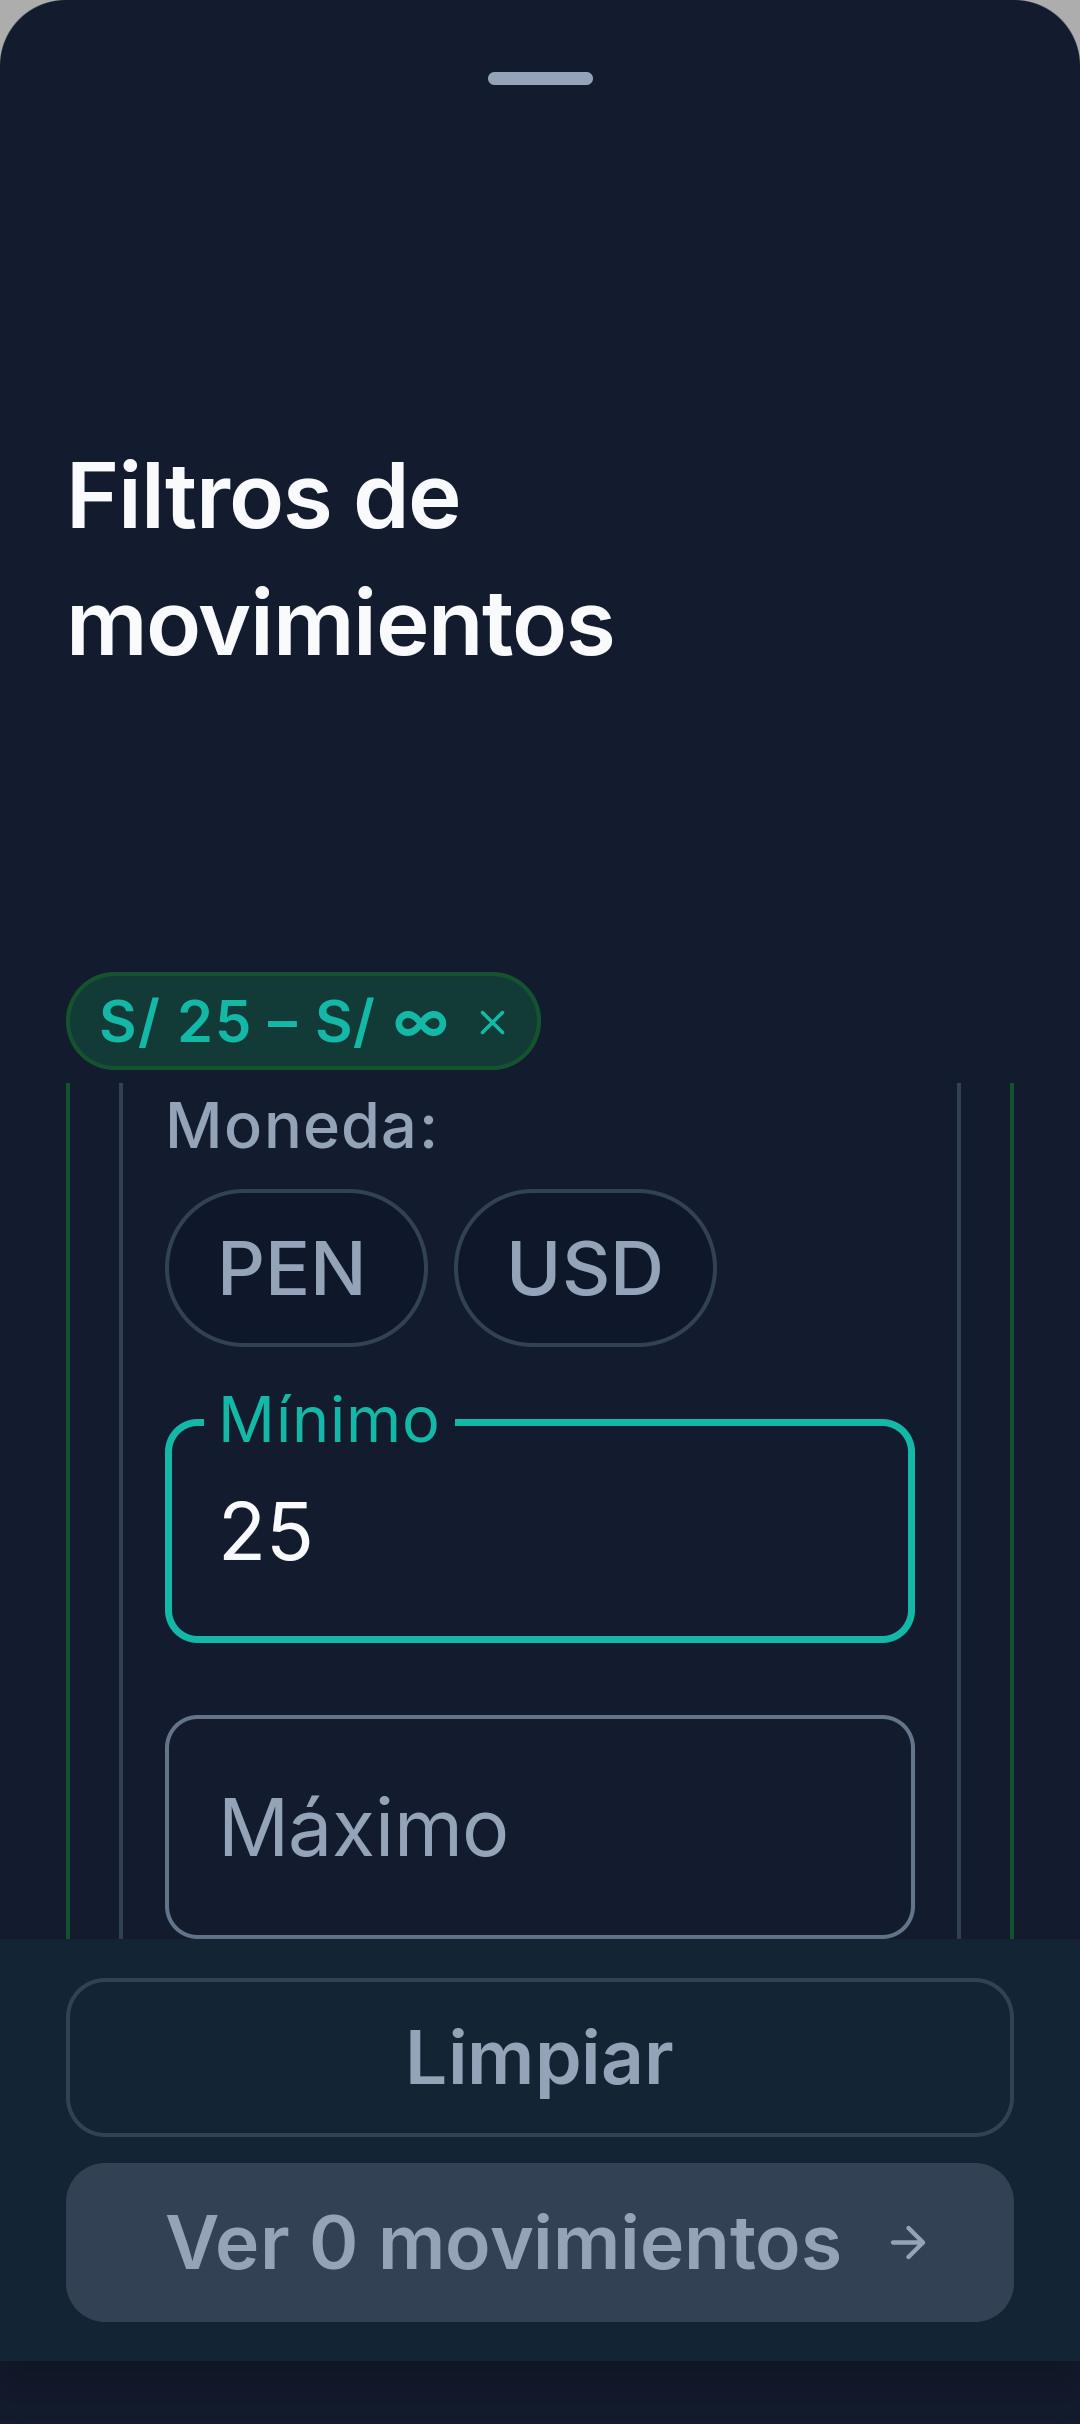
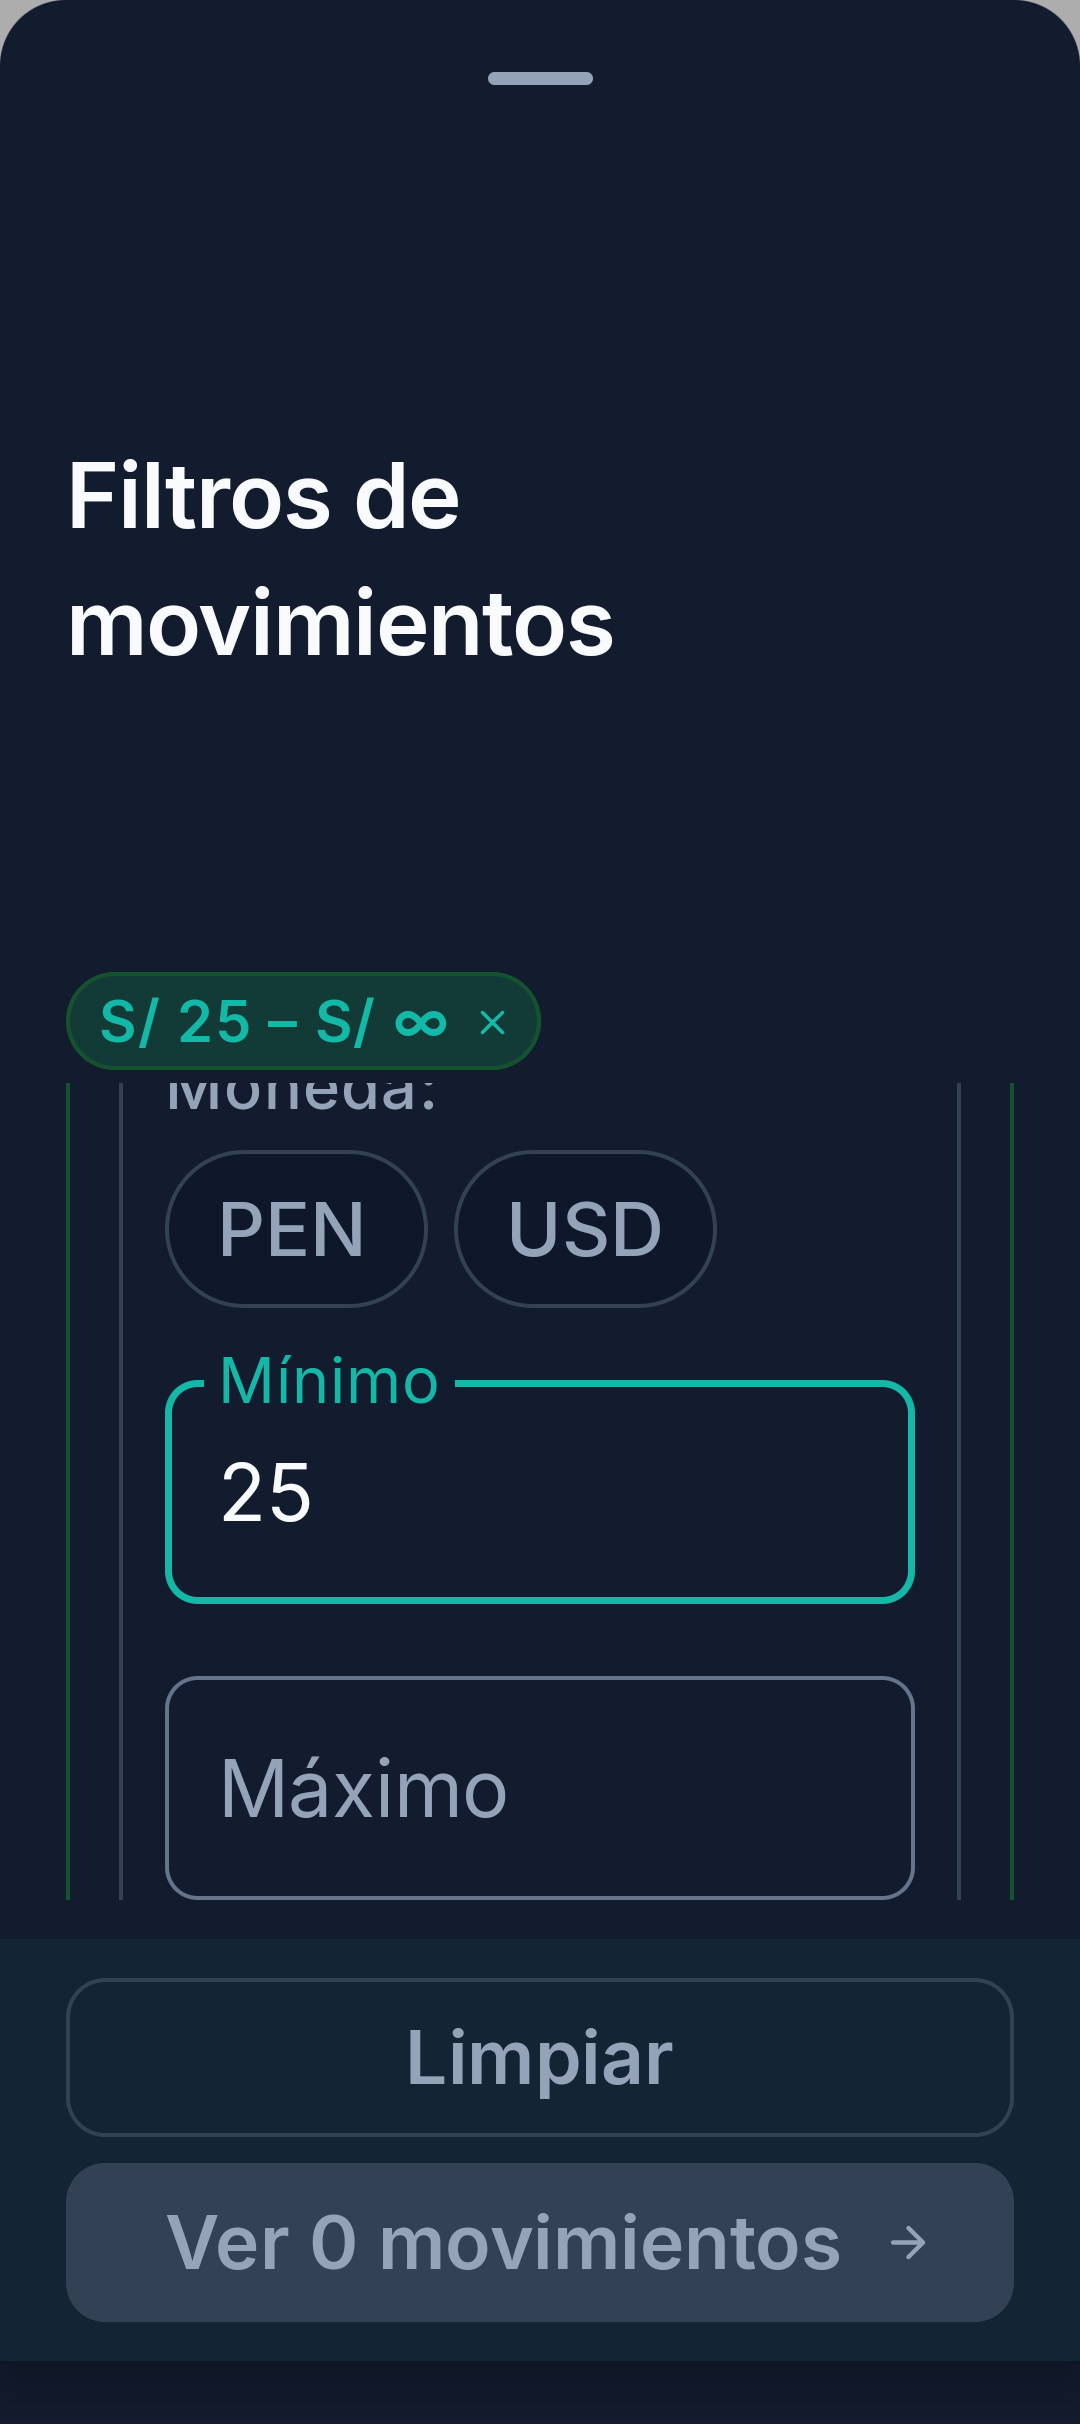
fix(movements): keep compact amount fields clear of footer

Changed region(s): [[0.1528, 0.4332, 0.8556, 0.8045], [0.6417, 0.495, 0.6722, 0.526]]

diff --git a/app/src/androidTest/java/com/kipu/app/feature/movements/presentation/MovementFiltersIssue19Test.kt b/app/src/androidTest/java/com/kipu/app/feature/movements/presentation/MovementFiltersIssue19Test.kt
@@ -189,7 +189,15 @@ class MovementFiltersIssue19Test {
         compose.onNodeWithText("PEN").performScrollTo().assertIsDisplayed()
         compose.onNodeWithText("USD").performScrollTo().assertIsDisplayed()
         compose.onNodeWithTag("input_filter_min_amount").performScrollTo().performClick().performTextInput("25")
-        compose.onNodeWithTag("input_filter_max_amount").performScrollTo().assertIsDisplayed()
+        val maxAmount = compose.onNodeWithTag("input_filter_max_amount").performScrollTo()
+        val maxBounds = maxAmount.getUnclippedBoundsInRoot()
+        val footerBounds = compose.onNodeWithTag("sticky_filter_footer").getUnclippedBoundsInRoot()
+        val footerClearance = 8.dp
+        assertTrue(
+            "Maximum amount field must remain clear of the sticky footer (field=$maxBounds footer=$footerBounds)",
+            maxBounds.bottom + footerClearance <= footerBounds.top
+        )
+        maxAmount.assertIsDisplayed()
         compose.onNodeWithTag("btn_apply_filters").assertIsDisplayed()
         compose.onNodeWithTag("btn_reset_advanced_filters").assertIsDisplayed()
         saveCompactEvidence("after-compact-large-text-dark.png", hasTestTag("panel_advanced_filters"))

diff --git a/app/src/main/java/com/kipu/app/feature/movements/presentation/MovementFiltersSheet.kt b/app/src/main/java/com/kipu/app/feature/movements/presentation/MovementFiltersSheet.kt
@@ -369,7 +369,7 @@ private fun MovementFiltersSheetContent(
         // Scrollable content body
         Column(
             modifier = Modifier
-                .weight(1f, fill = false)
+                .weight(1f)
                 .fillMaxWidth()
                 .padding(horizontal = 20.dp)
                 .verticalScroll(rememberScrollState()),
@@ -934,6 +934,8 @@ private fun MovementFiltersSheetContent(
             Spacer(Modifier.height(8.dp))
         }
 
+        if (compactLayout) Spacer(Modifier.height(12.dp))
+
         // STICKY BOTTOM BAR
         Surface(
             tonalElevation = 4.dp,
@@ -943,6 +945,7 @@ private fun MovementFiltersSheetContent(
                 .fillMaxWidth()
                 .navigationBarsPadding()
                 .imePadding()
+                .testTag("sticky_filter_footer")
         ) {
             FlowRow(
                 modifier = Modifier

diff --git a/specs/004-ep-mov-movimientos-ledger/tasks.md b/specs/004-ep-mov-movimientos-ledger/tasks.md
@@ -364,3 +364,9 @@ En la revisión local derivada del head `d57de66` se adaptaron la moneda, los ca
 Validación actual: `:app:testDebugUnitTest` pasó 526 tests; `:app:compileDebugKotlin`, `:app:compileDebugAndroidTestKotlin`, `:app:lintDebug` y `:app:assembleLab` terminaron correctamente. En Pixel 10 AVD/API 37, `KipuThemeContrastTest` + `ThemeScreenEvidenceTest` pasaron 4 tests y `MovementFiltersIssue19Test` pasó 10. Se generaron capturas actuales de superficies claro/oscuro y una captura de importe a ancho aproximado 320 dp/fuente ×1,6 en `docs/audits/evidence/issue-39/integrated-head-2026-10-17/`.
 
 La prueba compacta captura el árbol Compose después de entrada de texto; no demuestra visualmente el teclado IME del sistema. La suite instrumentada completa de 348 pruebas/17 fallos no se repitió después de este cambio. Por tanto T123 continúa abierta. T122 continúa abierta por cobertura parcial de previews, incluida la falta de preview de pantalla completa para `UnifiedInstrumentFormScreen`. T125 sigue abierta hasta revisión independiente y aceptación visual humana. No se ejecutaron TalkBack hablado ni runtime API 24.
+
+### Revalidacion del footer compacto (2026-10-17)
+
+Se cambio el area desplazable de filtros a `weight(1f)` para que ocupe el espacio disponible antes del footer, se anadio 12 dp de separacion en disposicion compacta y el test verifica un margen minimo de 8 dp para el campo Maximo. La prueba dirigida `MovementFiltersIssue19Test#compactDarkViewportWithLargeTextKeepsPrimaryActionsVisible` paso 1/1 en Pixel 10 AVD/API 37 y se regenero la captura integrada actual.
+
+T123 sigue abierta: no se capturo el IME real ni se repitio la suite instrumentada completa. T122 sigue abierta por la preview de pantalla completa de `UnifiedInstrumentFormScreen`; T125 sigue abierta hasta la aceptacion visual humana. No se ejecutaron TalkBack hablado ni runtime API 24.

diff --git a/docs/audits/evidence/issue-39/README.md b/docs/audits/evidence/issue-39/README.md
@@ -123,3 +123,9 @@ El runner acepta clases o `clase#método` separadas por comas, `--serial`/`ANDRO
 ## Límites de aceptación
 
 No se ejecutó TalkBack hablado ni runtime API 24. La cobertura de semántica y acciones no equivale a una sesión manual de escucha. Las parejas medidas no certifican todos los píxeles, logos, estados deshabilitados ni toda la accesibilidad de la aplicación. No se simularon compras, permisos concedidos por el usuario ni consultas remotas. Una ejecución interrumpida por bloqueo del celular fue descartada y repetida con el dispositivo desbloqueado. La aceptación visual humana de la integración actual no se realizó; la revisión independiente y la aceptación visual siguen pendientes y el issue permanece abierto.
+
+## Revalidacion del viewport compacto (2026-10-17)
+
+La captura `integrated-head-2026-10-17/after-compact-large-text-dark.png` se regenero desde el Pixel 10 AVD/API 37 despues de reservar el alto restante para el area desplazable y agregar 12 dp entre el contenido compacto y el footer. Muestra completos los campos Minimo y Maximo y deja un margen visible antes de las acciones. `MovementFiltersIssue19Test#compactDarkViewportWithLargeTextKeepsPrimaryActionsVisible` paso 1/1; el test exige al menos 8 dp de separacion entre Maximo y el footer.
+
+La captura es del arbol Compose y no incluye el IME del sistema. La suite instrumentada completa, los previews pendientes de `UnifiedInstrumentFormScreen`, TalkBack/API 24 y la aceptacion visual humana siguen abiertos; T122, T123 y T125 no se marcan completas.
